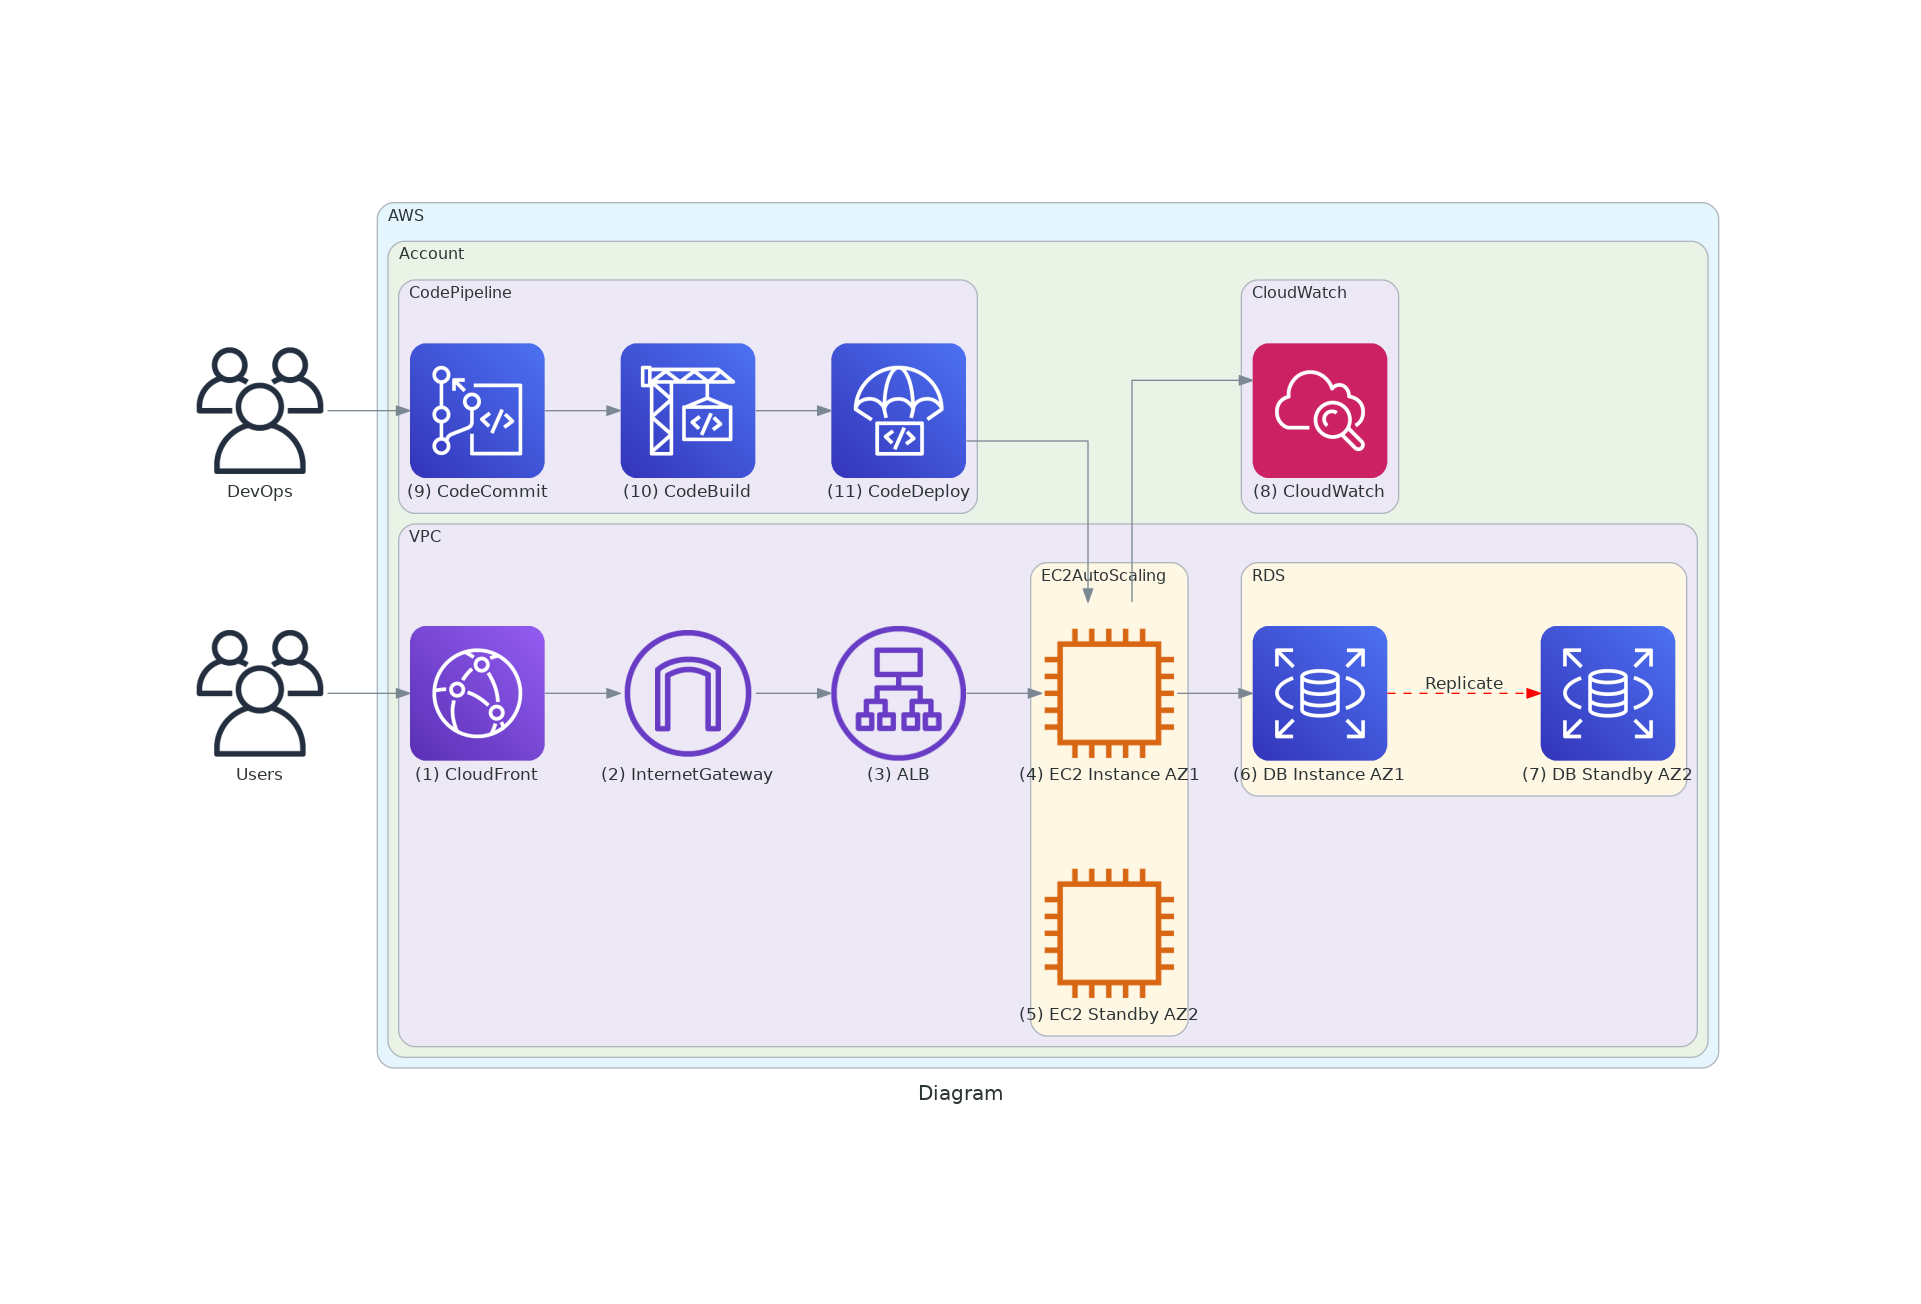
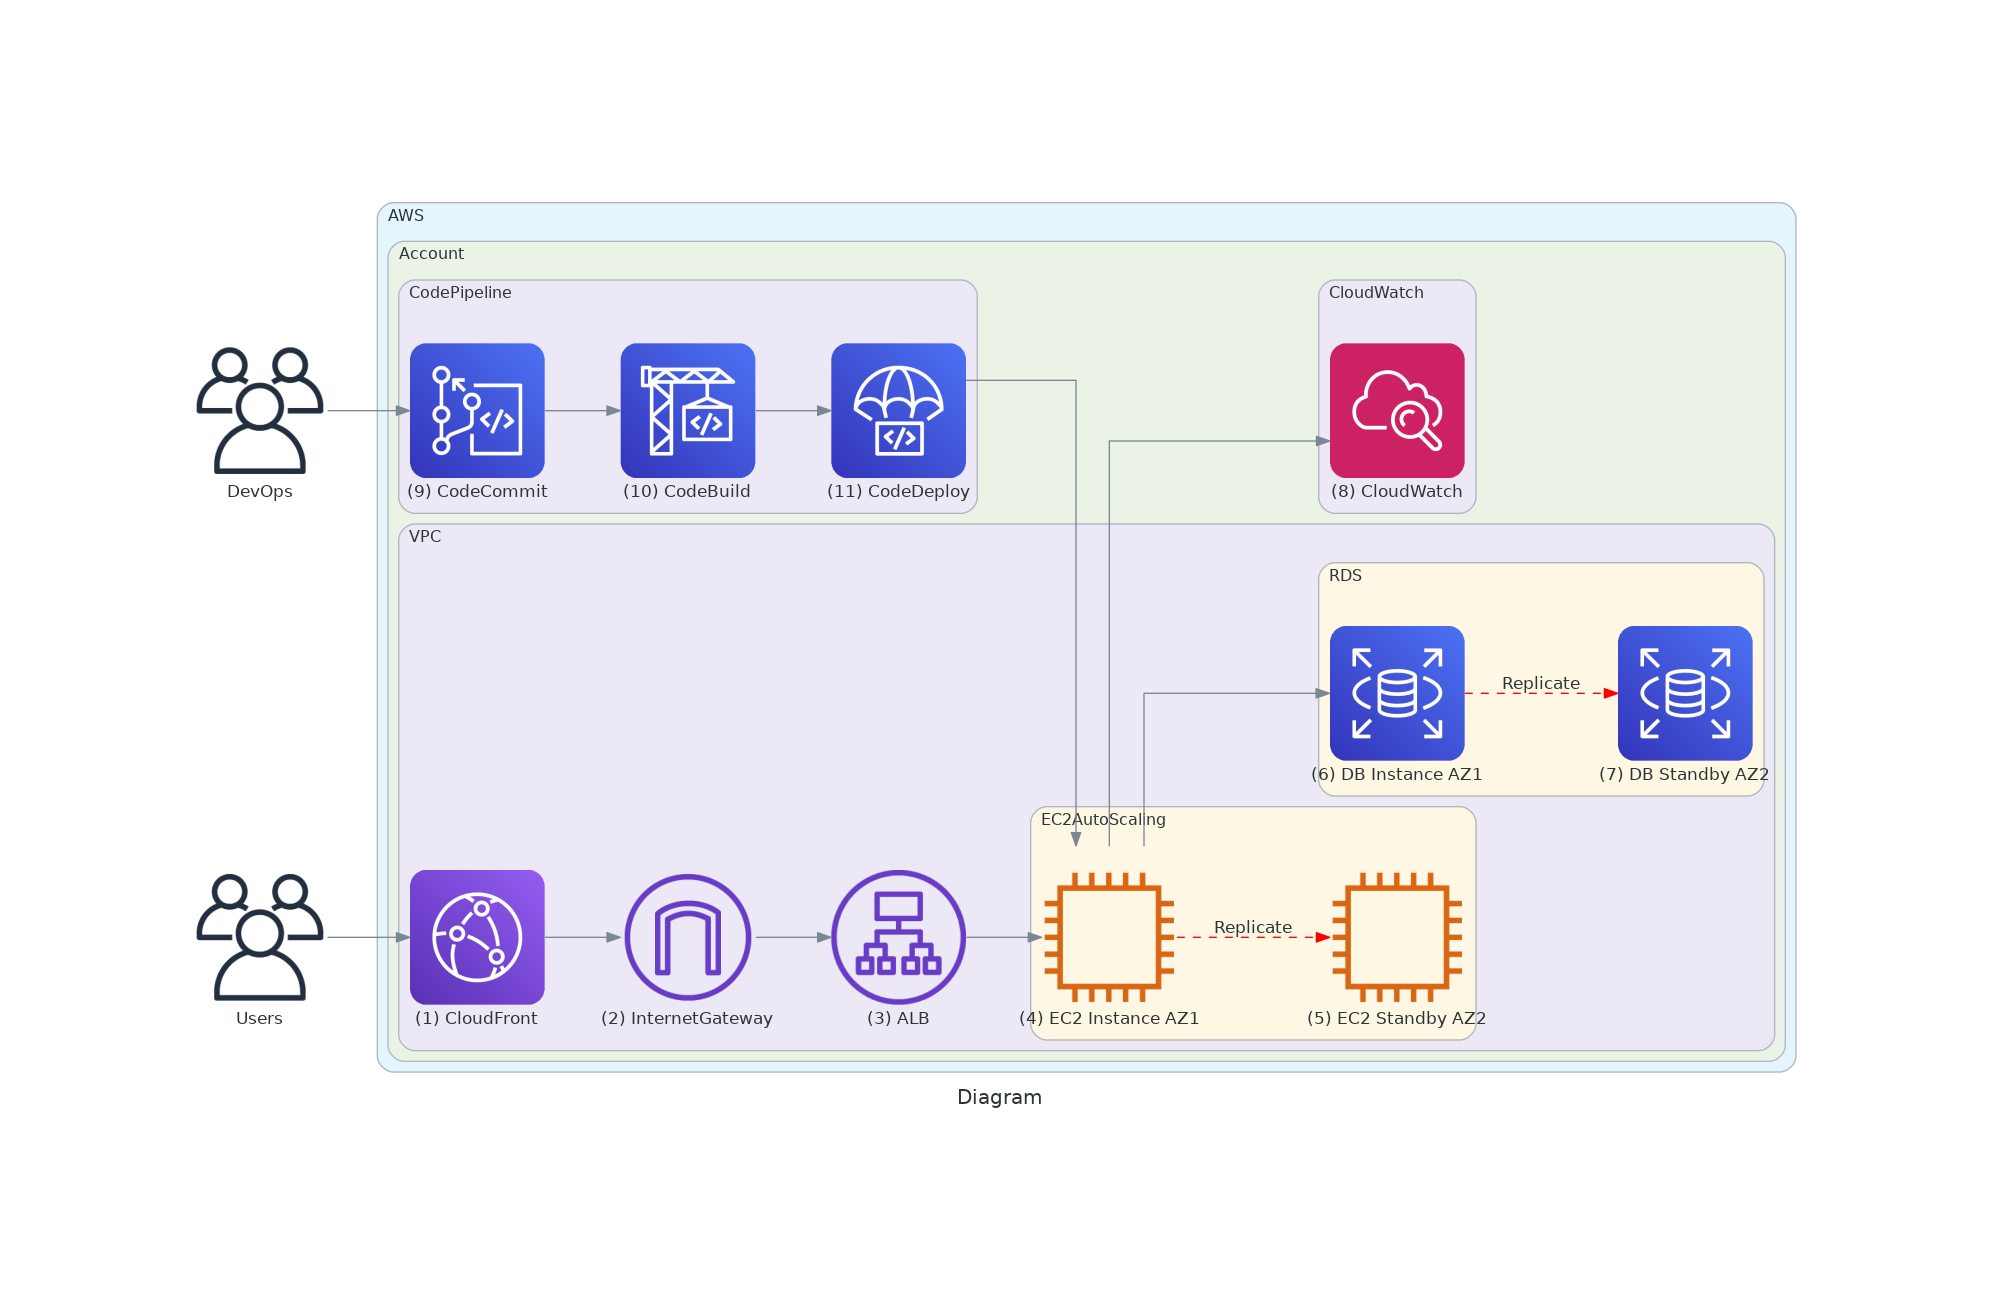
commit

Changed region(s): [[0.0937, 0.1534, 0.9058, 0.8589], [0.6247, 0.2147, 0.7496, 0.3988]]

diff --git a/diagram.py b/diagram.py
@@ -21,10 +21,11 @@ with Diagram("Diagram", direction="LR", show=False):
                 ALB = ALB("(3) ALB")
                 with Cluster("EC2AutoScaling"):
                     EC2Instance = [EC2Instance("(4) EC2 Instance AZ1"), EC2Instance("(5) EC2 Standby AZ2")]
+                EC2Instance[0] >> Edge(color="red", style="dashed", label="Replicate") >> EC2Instance[1]
                 with Cluster("RDS"):
                     RDS = [RDS("(6) DB Instance AZ1"), RDS("(7) DB Standby AZ2")]      
-                Users >> CloudFront >> InternetGateway >> ALB >> EC2Instance[0] >> RDS[0]
                 RDS[0] >> Edge(color="red", style="dashed", label="Replicate") >> RDS[1]
+                Users >> CloudFront >> InternetGateway >> ALB >> EC2Instance[0] >> RDS[0]
 
             with Cluster("CloudWatch"):
                 Cloudwatch = Cloudwatch("(8) CloudWatch")
